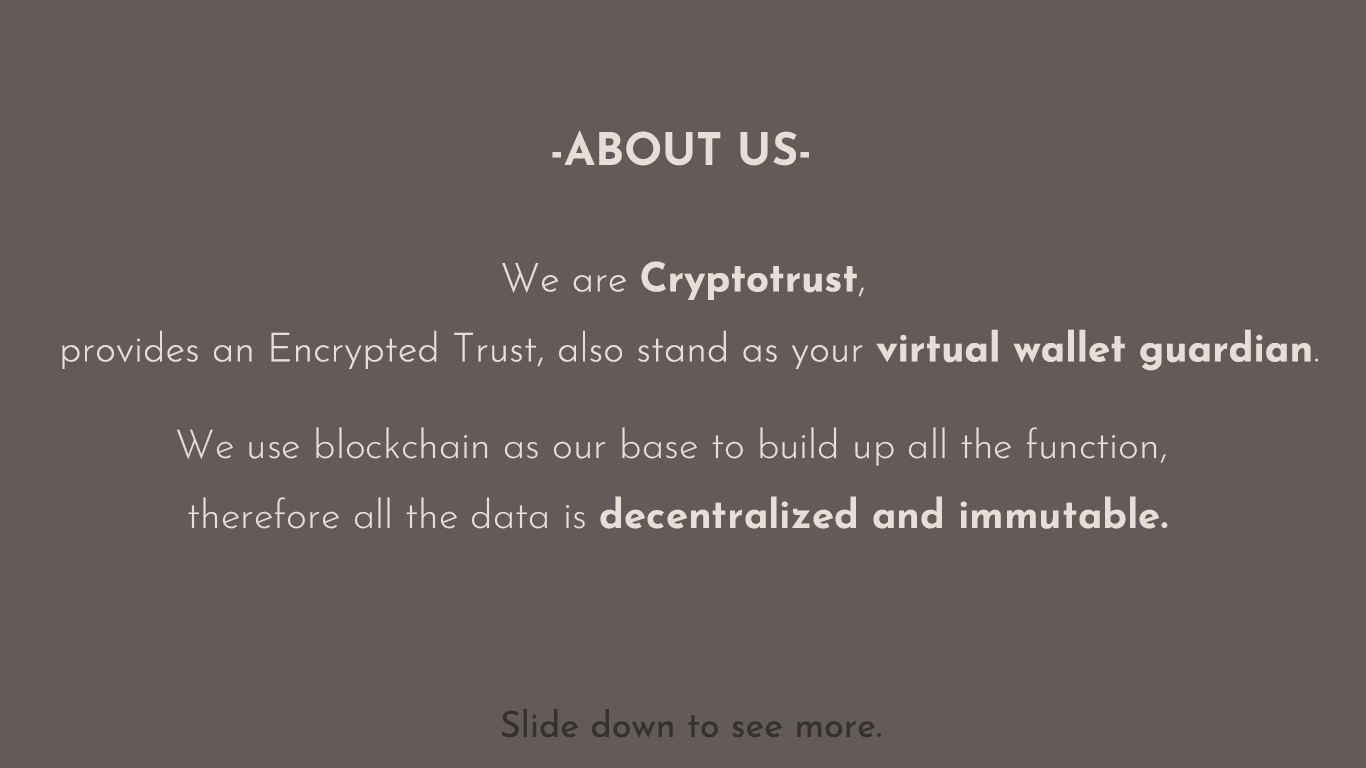
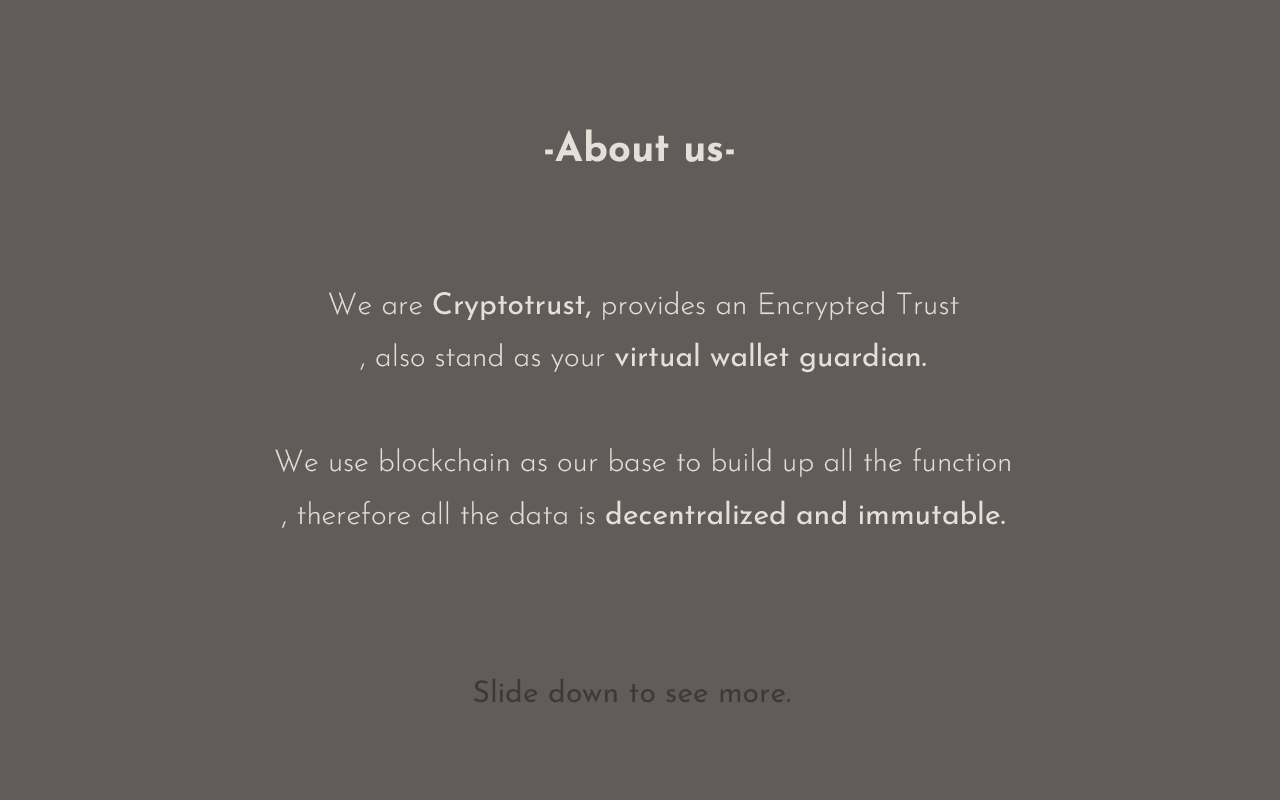
0918
圖改成網頁

diff --git a/src/pages/enterpage.jsx b/src/pages/enterpage.jsx
@@ -53,12 +53,32 @@ class EnterPage extends Component {
         return (
             <Layout>
                 
-            <div className="App textstyle">
+            <div className="app">
                             <div class="welcome" >
-
+                                <div class="r">
+                                <p>WELCOME TO <b>CRYPTOTRUST</b><br></br>WE ARE HERE TO PROTECT YOUR <b>VIRTUAL ASSETS</b></p>
+                                </div>
                             </div>
+                            
                             <div class="about " >
-
+                            
+                                
+                           
+                            <div class="a">
+                                <p class="b"><b>-About us-</b></p>
+                                <br></br>
+                                <br></br>
+                                <p>We are <b>CryptoTrust</b>,<br></br>provides an Encrypted Trust, also stand as your <b>virtual wallet guardian</b></p>
+                                <br></br>
+                                <p>We use blockchain as our base to build up all the function,<br></br>therefore all the data is <b>decentralized and immutable.</b></p>
+                                <br></br>
+                                <br></br>
+                                <br></br>
+                                <br></br><br></br>
+                                <p class="bl">Slide down to see more.</p>
+                                
+                            </div>
+                            
                             </div>
                             
                             <div class="main ">
@@ -67,7 +87,7 @@ class EnterPage extends Component {
                             </div>
                             <div class="article section2 center">
                                 <p class="big">We have two main function:</p>
-                                
+                                <br></br>
                                 <div data-azbox="" data-gjs-type="agjc-box" id="leftenter">
                                     <div class="bimg center" ></div>
                                     <div class="big center" >Backup-mechanism</div>
@@ -78,13 +98,15 @@ class EnterPage extends Component {
                                 </div>
                                     
                                 <div data-azbox="" data-gjs-type="agjc-box" id="leftenter" >
-                                <p class="textstyle">You can set the backup contract in advance. <br></br>Once if you lost your wallet password, you can come here to activate the backup contract<br></br>Then all your virtual currency in the previous wallet will be return to your new wallet.</p>    
+                                    
+                                <p >You can set the backup contract in advance. <br></br>Once if you lost your wallet password, you can come here to activate the backup contract<br></br>Then all your virtual currency in the previous wallet will be return to your new wallet.</p>    
                                 </div>
 
                                 
-                                <div data-azbox="" data-gjs-type="agjc-box" id="rightenter" >
-                                <p class="textstyle">The testament function is for people who are willing to distribute their property secretly.<br></br>Testators can add more than one beneficiaries with the customized percentage</p>
-                                <p class="textstyle"> (N.B. Each proportion of designated beneficiary should add up to 100% )</p>
+                                <div id="rightenter" >
+                                <br></br>
+                                <p>The testament function is for people who are willing to distribute their property secretly.<br></br>Testators can add more than one beneficiaries with the customized percentage</p>
+                                <p> (N.B. Each proportion of designated beneficiary should add up to 100% )</p>
                                           
                                 </div>
                                
@@ -95,11 +117,11 @@ class EnterPage extends Component {
                             <div class="article section2  center">
                             <p class="big">By this two function, <br></br>we can ensure that all the virtual currency can be circulated, and not wasted</p>
                             <br></br>
-                                <div data-azbox="" data-gjs-type="agjc-box" id="leftenter">
+                                <div id="leftenter">
                                 <p>Create your own back-up mechanism or testamentary</p>
                                 <Button class="button" href="/Main" variant="outline-warning">Create your own.</Button>
                                 </div>
-                                <div data-azbox="" data-gjs-type="agjc-box" id="rightenter">
+                                <div id="rightenter">
                                 <p>Activate your own back-up mechanism or testamentary</p>
                                 <Button href="/ActivateMain" variant="outline-warning">Activate.</Button>
                                 </div>

diff --git a/src/App.css b/src/App.css
@@ -2,13 +2,28 @@
 font-family: 'Questrial', sans-serif; */
 .App {
   text-align: center;
-  
-  /*background-image: url('tech.jpg');margin: 8%;*/
+  margin: 8%;
+  /*background-image: url('tech.jpg');*/
   
 
 }
+.a{
+  margin: 10% 20% 5% 25% ;
+
+}
+.b{
+  font-size: 35px;
+}
+
+.bl{
+  color:#1B1617;
+}
 .l{
   text-align: left;
+
+}
+.r{
+  margin: 25% 25% 25% 20% ;
 
 }
 .modify{
@@ -48,7 +63,8 @@ font-family: 'Questrial', sans-serif; */
   align-items: center;
   justify-content: center;
   font-size: calc(10px + 2vmin);
-  color : black;
+  color : #1B1617;
+  font-family: "Jost";
 }
 
 .App-link {
@@ -88,7 +104,7 @@ font-family: 'Questrial', sans-serif; */
   background-attachment: fixed;
   background-position: center center;
   background-size: cover;
-  font: "Oleo Script";
+  font-family: "Jost";
   /*line-height: 28px; */ 
 }
 
@@ -111,7 +127,9 @@ font-family: 'Questrial', sans-serif; */
 
 .big{
   font-size: 25px;
-  color: #89817E;
+  color: #635B5A;
+  font-weight: bold;
+  font-family: "Jost";
 }
 
 .color{
@@ -121,11 +139,12 @@ font-family: 'Questrial', sans-serif; */
 .textstyle{
   
   font-size :20px ;
-  font-family: "Josefin Sans";
-  /*font: "Trebuchet MS";font-family: "OCR A Std, monospace" ;*/
+  font-family: "Jost";
   color: #1B1617;
+  /*font: "Trebuchet MS";font-family: "OCR A Std, monospace" ;*/
   
 }
+
 
 
 .out{
@@ -149,15 +168,27 @@ font-family: 'Questrial', sans-serif; */
 }
 
 .welcome{
-  background-image: url('welcome.png');
-  width: 1366px;
-  height: 768px;
+  background-color: #E6DDDA;
+  width: 1519px;
+  height: 700px;
+  font-size :30px ;
+  /*font-family: 'Questrial', sans-serif;*/
+  font-family: "Jost";
+  color: #89817E;
+  display: flex;
+  align-items: center;
 }
 
 .about{
-  background-image: url('aboutus.png');
-  width: 1366px;
-  height: 768px;
+  background-color: #635B5A;
+  width: 1519px;
+  height: 800px;
+  font-size :25px ;
+  font-family: "Jost";
+  color: #cfc5bf;
+  display: flex;
+  text-align: center;
+  
 }
 
 .section1{
@@ -187,6 +218,9 @@ font-family: 'Questrial', sans-serif; */
   justify-content: center;
   align-items: flex-start;
   text-align: center;
+  font-size :20px ;
+  font-family: "Jost";
+  color: #89817E;
   
 }
 
@@ -213,6 +247,9 @@ font-family: 'Questrial', sans-serif; */
   display: inline-block;
   justify-content: center;
   align-items: flex-start;
+  font-size :20px ;
+  font-family: "Jost";
+  color: #89817E;
    
 }
 

diff --git a/src/layout.css b/src/layout.css
@@ -6,24 +6,26 @@
     right: 0;
     left: 0;
     top: 0; 
-    color : black;
-    font-size: 15px;
-    border-bottom-color: black;
-    border-bottom-width: 0.5px;
+    color : #00000080;
+    font-family: "Jost";
+    font-size: 18px;
+    border-bottom-color: #00000080;
+    border-bottom-width: 0.2px;
     border-bottom-style: solid;
 }
 
 .footer {
     background:#faf0e6;
-    border-top-color: black;
-    border-top-width: 0.5px;
+    border-top-color: #00000080;
+    border-top-width: 0.2px;
     border-top-style: solid;
+    font-family: "Jost";
     /*background-color:#8C8F8D ;
      opacity:0.3; */
 }
 
 .footer-copyright {
-    color: black; 
+    color: #00000080; 
 }
 
 .dropdown{
@@ -35,11 +37,11 @@
 .text{
     margin: 1em 1em;
     text-align: center;
-    color : black;
+    color : #00000080;
 }
 
 .w{
-    color : black;
+    color : #00000080;
 
 }
 .icon{
